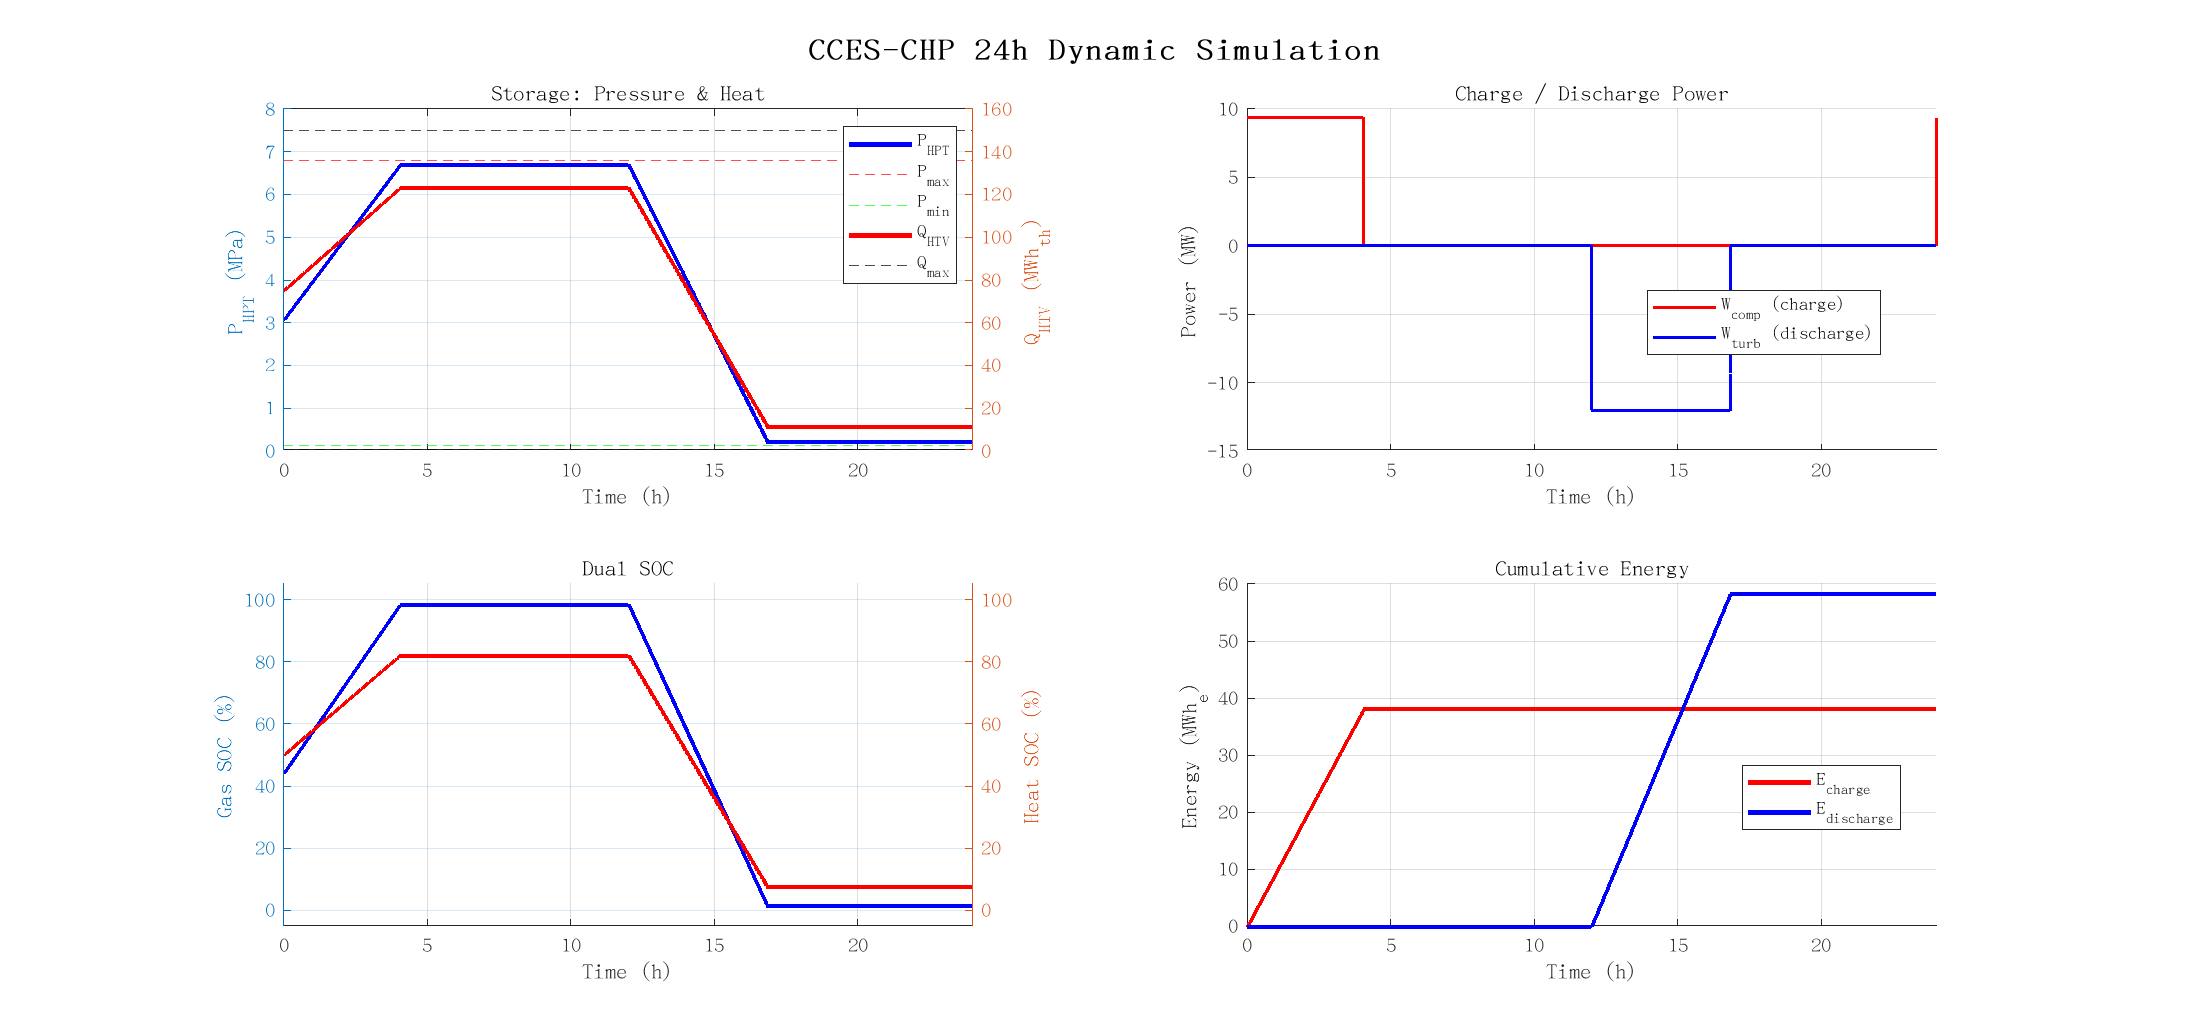
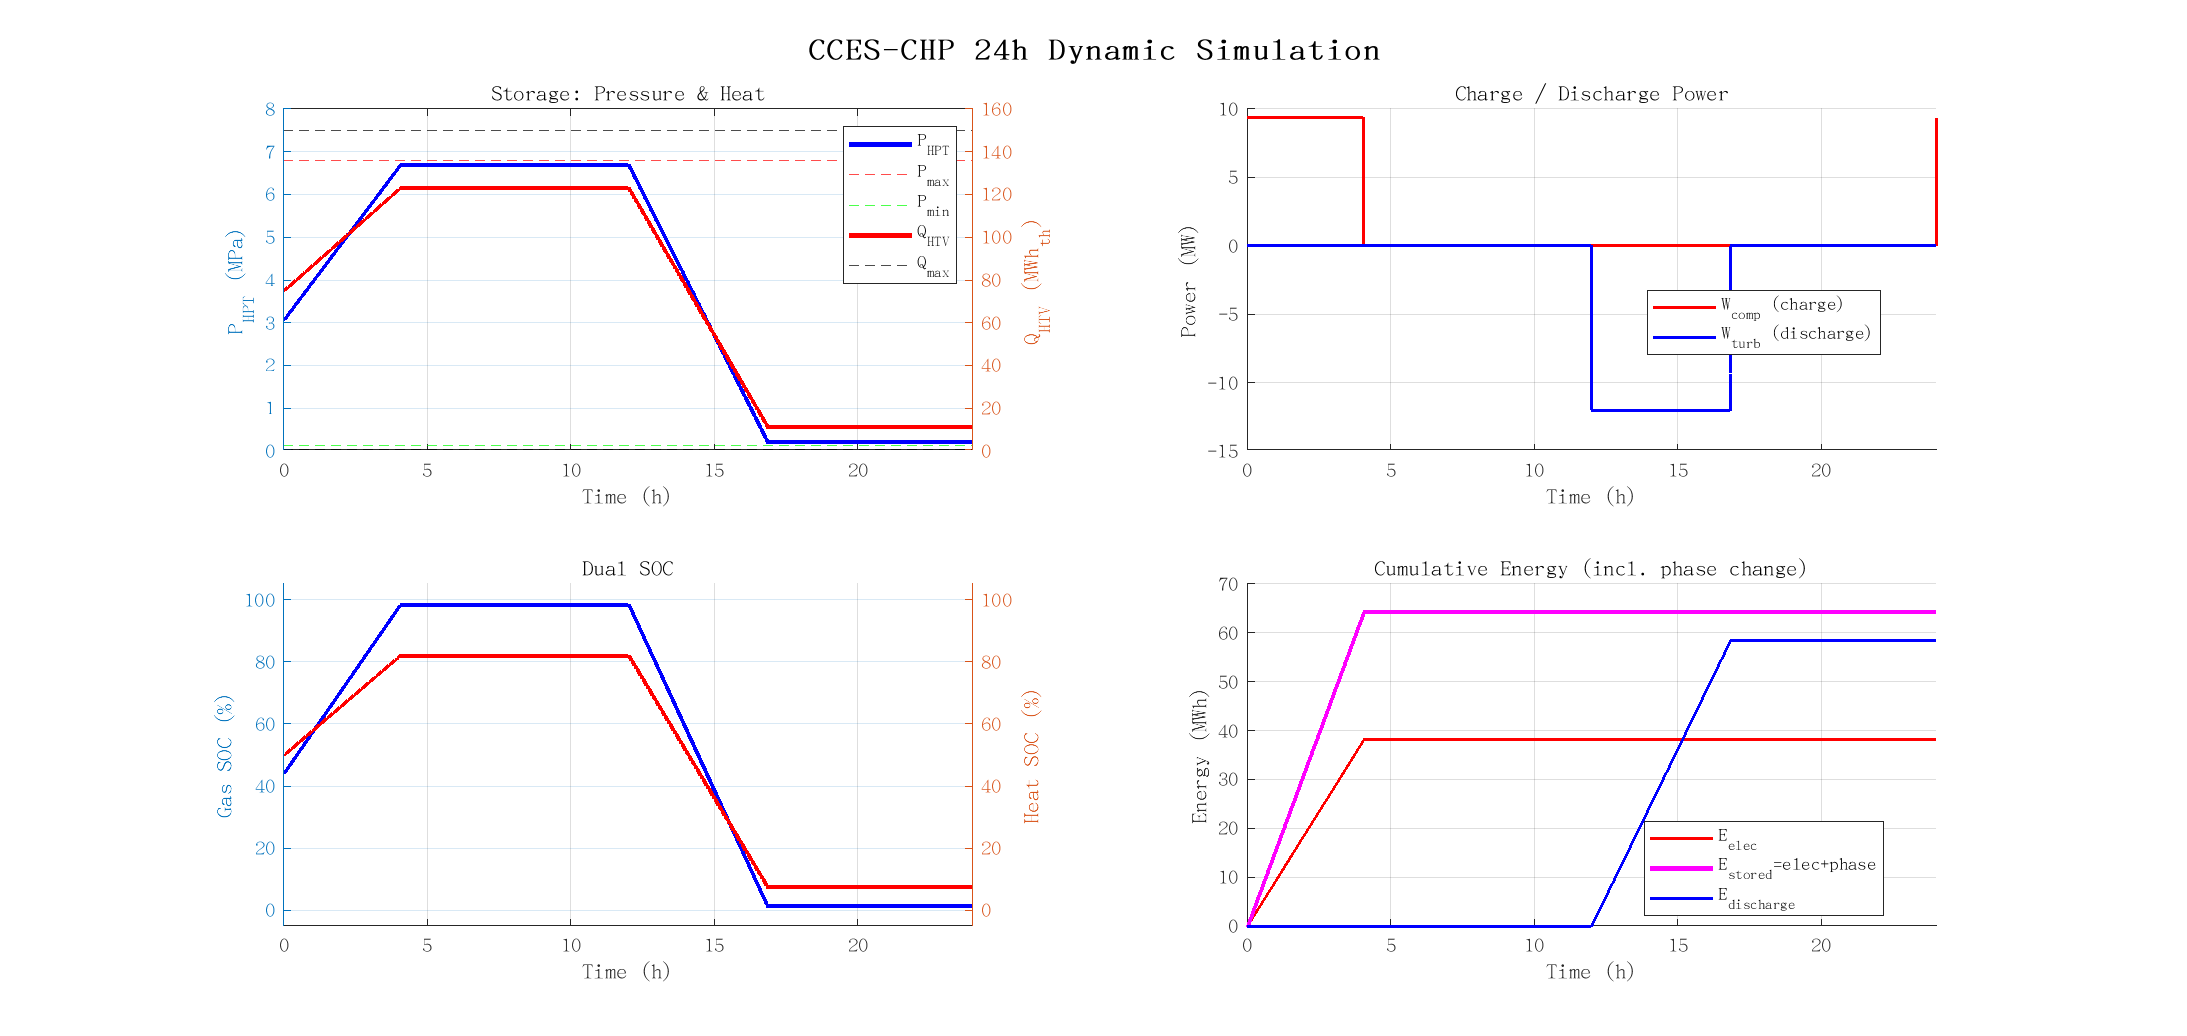
fix: include CO2 phase change enthalpy in cumulative energy plot
Add liquefaction latent heat (235.8 kJ/kg) to stored energy curve
so E_stored = E_elec + E_phase > E_discharge, showing the phase
change energy contribution and clarifying the energy balance.

Changed region(s): [[0.5286, 0.556, 0.8706, 0.8958], [0.6219, 0.5251, 0.8084, 0.556], [0.5286, 0.6795, 0.5597, 0.7104]]

diff --git a/CCES_CHP_Simulink/src/plot_simulation.m b/CCES_CHP_Simulink/src/plot_simulation.m
@@ -69,16 +69,33 @@ ylabel('Heat SOC (%)'); ylim([-5 105]);
 xlabel('Time (h)'); title('Dual SOC');
 xlim([0 24]);
 
-% ---- 底右: 累积能量 ----
+% ---- 底右: 累积能量 (含相变焓) ----
 ax4 = subplot(2,2,4);
 hold on; grid on;
-cum_Wc = cumtrapz(t, Wc);
-cum_Wt = cumtrapz(t, Wt);
-plot(t, cum_Wc, 'r-', 'LineWidth', 2);
-plot(t, cum_Wt, 'b-', 'LineWidth', 2);
-xlabel('Time (h)'); ylabel('Energy (MWh_e)');
-title('Cumulative Energy');
-legend('E_{charge}', 'E_{discharge}', 'Location', 'best');
+
+% 充电质量流量: m_dot = alpha1 * charge_cmd
+% CO2 气相→液相焓降: Δh = 505708 - 269875 = 235833 J/kg
+dh_phase = 235833;  % J/kg
+alpha1 = 2.744;     % kg/(s·MW)
+
+% 从 controller 指令推算 mass flow
+charge_cmd = Wc / 9.39 * 10;  % Wc ∝ cmd, 9.39MW at 10MW cmd
+m_dot_ch = alpha1 * charge_cmd;  % kg/s
+
+% 相变储存功率: m_dot * dh_phase / 1e6 [MW]
+P_phase = m_dot_ch * dh_phase / 1e6;
+
+cum_Wc = cumtrapz(t, Wc);          % 电力 [MWh_e]
+cum_phase = cumtrapz(t, P_phase);   % 相变焓 [MWh_th]
+cum_stored = cum_Wc + cum_phase;    % 总储存 = 电 + 相变
+cum_Wt = cumtrapz(t, Wt);           % 放电 [MWh_e]
+
+plot(t, cum_Wc, 'r-', 'LineWidth', 1.5);
+plot(t, cum_stored, 'm-', 'LineWidth', 2);
+plot(t, cum_Wt, 'b-', 'LineWidth', 1.5);
+xlabel('Time (h)'); ylabel('Energy (MWh)');
+title('Cumulative Energy (incl. phase change)');
+legend('E_{elec}', 'E_{stored}=elec+phase', 'E_{discharge}', 'Location', 'best');
 xlim([0 24]); grid on;
 
 sgtitle('CCES-CHP 24h Dynamic Simulation', 'FontSize', 16, 'FontWeight', 'bold');
